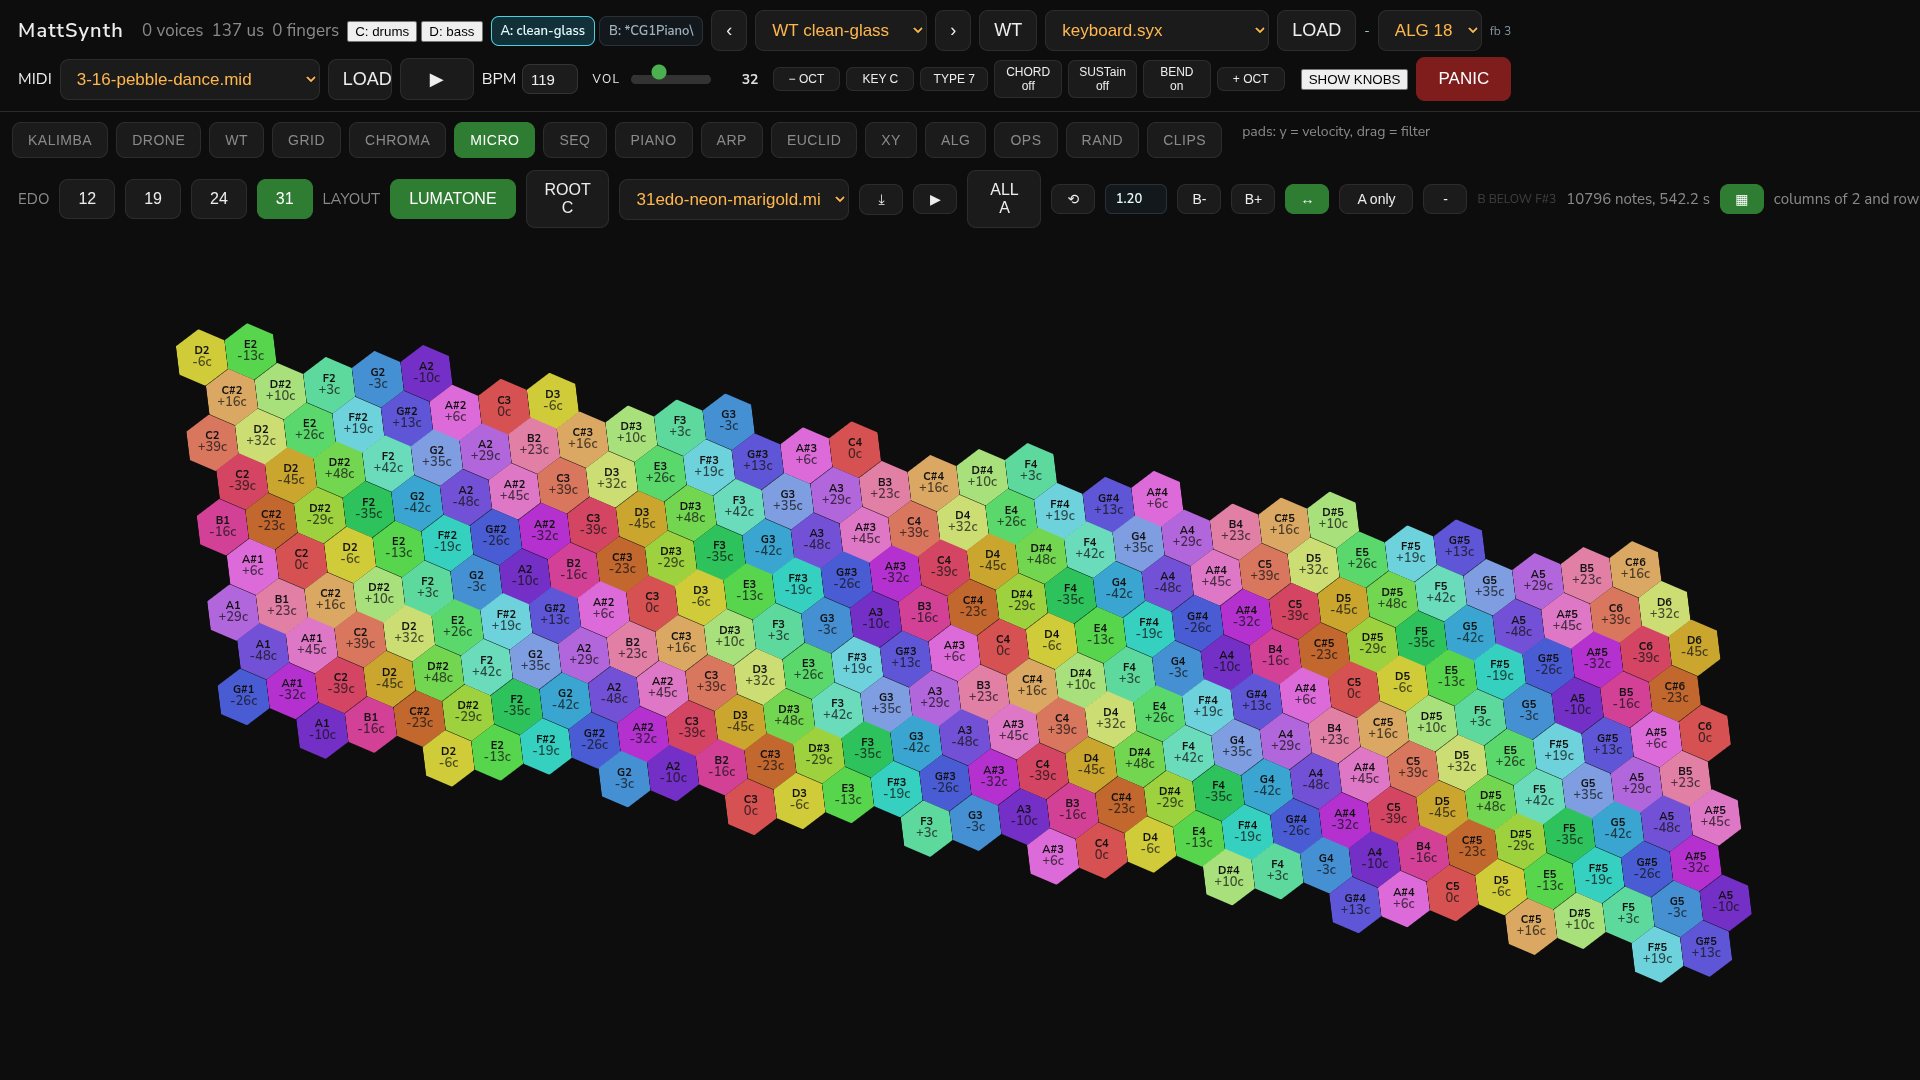
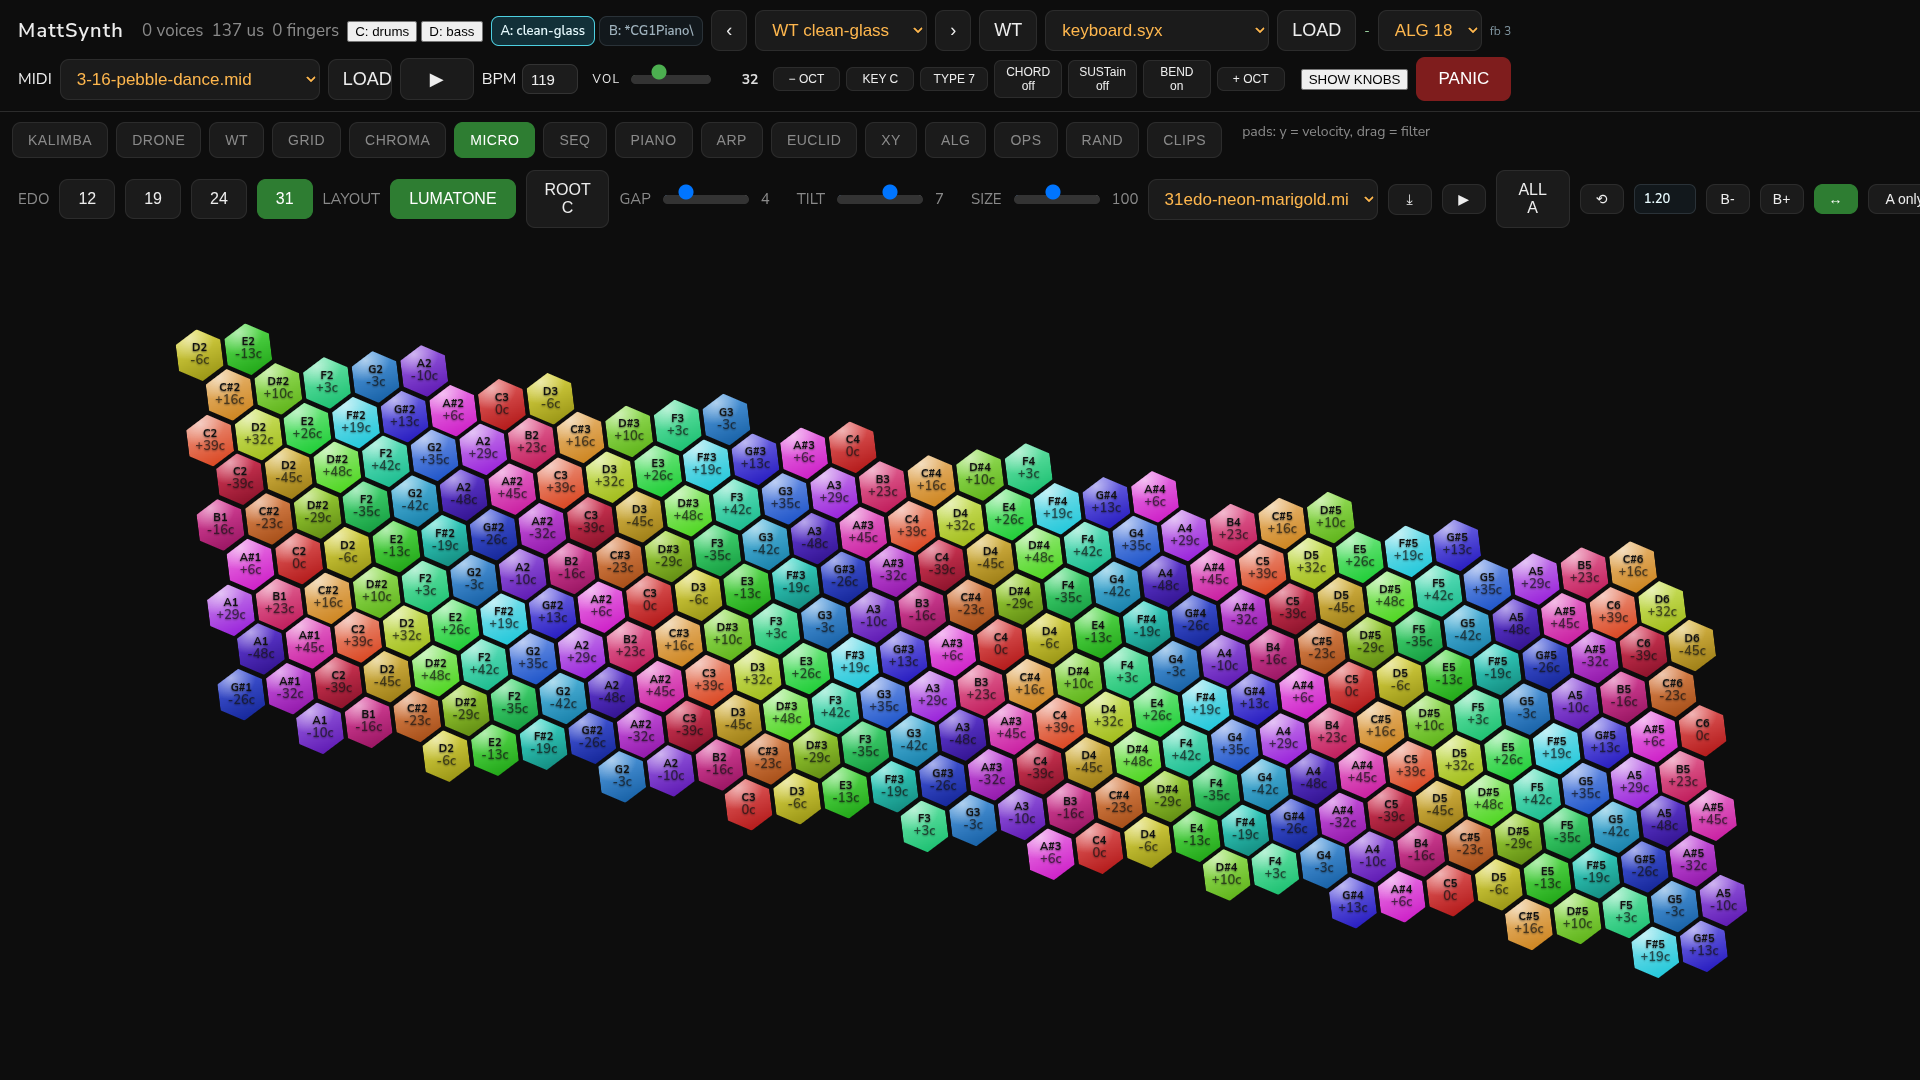
micro: live GAP, TILT and SIZE sliders, and jewel keys
Three sliders on the micro tab re-lay out the board without rebuilding the view and
save with the rest of the state. Keys lose their flat fill: a specular sheen, a lit
rim, a shaded lower face, and an adjustable dark gap between them.

diff --git a/panel/panel_ui.py b/panel/panel_ui.py
@@ -916,7 +916,7 @@ let bendRange=1200;   /* cents at full deflection, set by the BEND knob */
 let chordN=3;         /* how many notes a pad plays with CHORD on, set by the CHORD knob */
 let chordSpace=1;     /* multiplies the chord type gaps: maj 0-2-4 at 2 becomes 0-4-8 */
 /* microtonal player: EDO, layout and root */
-const micro = { edo:24, layout:"bosa", root:0, size:"big" };
+const micro = { edo:24, layout:"bosa", root:0, size:"big", gap:4, tilt:7, ksize:100 };
 let fxHidden = false;   /* the right column can collapse so a player gets the width */
 let part = 0;   /* which timbre the pads, roll and edit verbs act on */
 const fingers = new Map();   // pointerId -> the exact notes that finger started
@@ -3783,13 +3783,20 @@ function microKey(c, r, cols, rows, forcedNote, forcedLabel, forcedCents){
   d.dataset.note = note;
   d.dataset.cents = off;
   d.dataset.h = hue;
-  d.style.background = "hsl(" + hue + ",62%," + (58 + (off % 12)) + "%)";
+  /* a faceted jewel: a specular sheen top left, a deeper body, a lit rim */
+  const Lt = 54 + (off % 10);
+  d.style.background = "radial-gradient(120% 90% at 32% 16%, rgba(255,255,255,.55), rgba(255,255,255,0) 46%)," +
+                       "linear-gradient(165deg, hsl(" + hue + ",74%," + (Lt + 12) + "%), hsl(" + hue + ",80%," + (Lt - 16) + "%))";
+  d.style.boxShadow = "inset 0 0 0 1.5px rgba(255,255,255,.32), inset 0 3px 6px rgba(255,255,255,.5)," +
+                      " inset 0 -8px 16px rgba(0,0,0,.45), 0 3px 6px rgba(0,0,0,.55)";
+  d.style.textShadow = "0 1px 2px rgba(0,0,0,.55)";
   const kl = document.createElement("span");
   kl.className = "kl";
   kl.textContent = forcedLabel ? forcedLabel : (NOTE[note % 12] + (Math.floor(note / 12) - 1));
   const sub = document.createElement("small");
   sub.textContent = forcedLabel ? "" : ((off === 0 ? "0" : (off > 0 ? "+" + off : String(off))) + "c");
   kl.appendChild(sub);
+  kl.style.transform = "rotate(" + (micro.tilt || 0) + "deg)";
   d.appendChild(kl);
   d.addEventListener("pointerdown", ev=>{
     ev.preventDefault();
@@ -3836,6 +3843,26 @@ function buildMicro(){
   rb.textContent = "ROOT " + NOTE[(60 + micro.root) % 12];
   rb.onclick = ()=>{ micro.root = (micro.root + 1) % 12; buildMicro(); saveState(); };
   bar.appendChild(rb);
+  /* live geometry: gap between keys, tilt of the whole field, key size */
+  const geom = (label, key, lo, hi, val)=>{
+    const t = document.createElement("span"); t.className = "lab"; t.textContent = label;
+    const inp = document.createElement("input");
+    inp.type = "range"; inp.min = lo; inp.max = hi; inp.step = 1; inp.value = micro[key];
+    inp.style.width = "86px"; inp.id = "g_" + key;
+    const out = document.createElement("span"); out.className = "lab";
+    out.style.minWidth = "26px"; out.textContent = micro[key];
+    inp.oninput = ()=>{
+      micro[key] = +inp.value; out.textContent = inp.value;
+      const g = document.getElementById("mrow");
+      if(g && g.__fill) g.__fill();
+    };
+    inp.onchange = ()=> saveState();
+    bar.appendChild(t); bar.appendChild(inp); bar.appendChild(out);
+  };
+  geom("GAP", "gap", 0, 18);
+  geom("TILT", "tilt", -25, 25);
+  geom("SIZE", "ksize", 60, 150);
+
   /* the file transport rides on this board: no second keyboard */
   const sel = document.createElement("select"); sel.id = "midisel"; sel.className = "pbtn";
   sel.style.minWidth = "230px";
@@ -4203,7 +4230,9 @@ function hexGrid(container){
     const SIZES = [[0,2],[0,5],[0,8],[0,11],[0,14],[0,17],[0,20],[0,23],[0,26],
                    [1,28],[4,26],[7,23],[10,20],[13,17],[16,14],[19,11],[22,8],[25,5],[28,2]];
     const ROWS = SIZES.length, MAXC = 30;
-    const TILT = 7;
+    const TILT = (typeof micro.tilt === "number" ? micro.tilt : 7);
+    const GAP = Math.max(0, micro.gap | 0);
+    const ZOOM = Math.max(0.5, Math.min(1.6, (micro.ksize || 100) / 100));
     const w = Math.max(22, Math.floor(Math.min(availW / (MAXC + 0.5),
                      availH / (((ROWS - 1) * 0.75 + 1)) * (Math.sqrt(3) / 2))));
     const h = Math.round(w * 2 / Math.sqrt(3));       /* pointy-top hexagon */
@@ -4216,7 +4245,7 @@ function hexGrid(container){
     /* the silhouette is a leaning block of 280 keys, so centre its bounding box */
     grid.style.marginLeft = Math.max(0, Math.round((availW - gridW) / 2)) + "px";
     grid.style.marginTop = Math.max(0, Math.round((availH - gridH) / 2)) + "px";
-    grid.style.transform = "rotate(" + (-TILT) + "deg)";
+    grid.style.transform = "rotate(" + (-TILT) + "deg) scale(" + ZOOM.toFixed(3) + ")";
     grid.style.transformOrigin = "center center";
     grid.__keys = [];
     for(let r = 0; r < ROWS; r++){
@@ -4250,8 +4279,9 @@ function hexGrid(container){
         }
         const k = microKey(c, r, MAXC, ROWS, fNote, fLab, (zone ? fCents : null));
         k.dataset.zone = zone;
-        k.style.width = w + "px";
-        k.style.height = h + "px";
+        const kw = Math.max(8, w - GAP), kh = Math.round(kw * 2 / Math.sqrt(3));
+        k.style.width = kw + "px";
+        k.style.height = kh + "px";
         /* one half key of shear per row: that is what makes the intervals read as
            diagonals on the real instrument, and it replaces the odd row stagger */
         k.style.left = Math.round(c * w + (r % 2 ? w / 2 : 0)) + "px";
@@ -4270,12 +4300,13 @@ function hexGrid(container){
           k.style.boxShadow = "";
           k.style.color = "#111";
         }
-        k.style.fontSize = Math.max(11, Math.round(w * 0.19)) + "px";
+        k.style.fontSize = Math.max(10, Math.round(kw * 0.24)) + "px";
         k.style.lineHeight = "1.05";
         grid.__keys.push({el: k, pitch: (+k.dataset.note) * 100 + (+k.dataset.cents)});
         grid.appendChild(k);
       }
     }
+    grid.__fill = fill;
     hexKeys = grid.__keys;
     relightHeld();
   };
